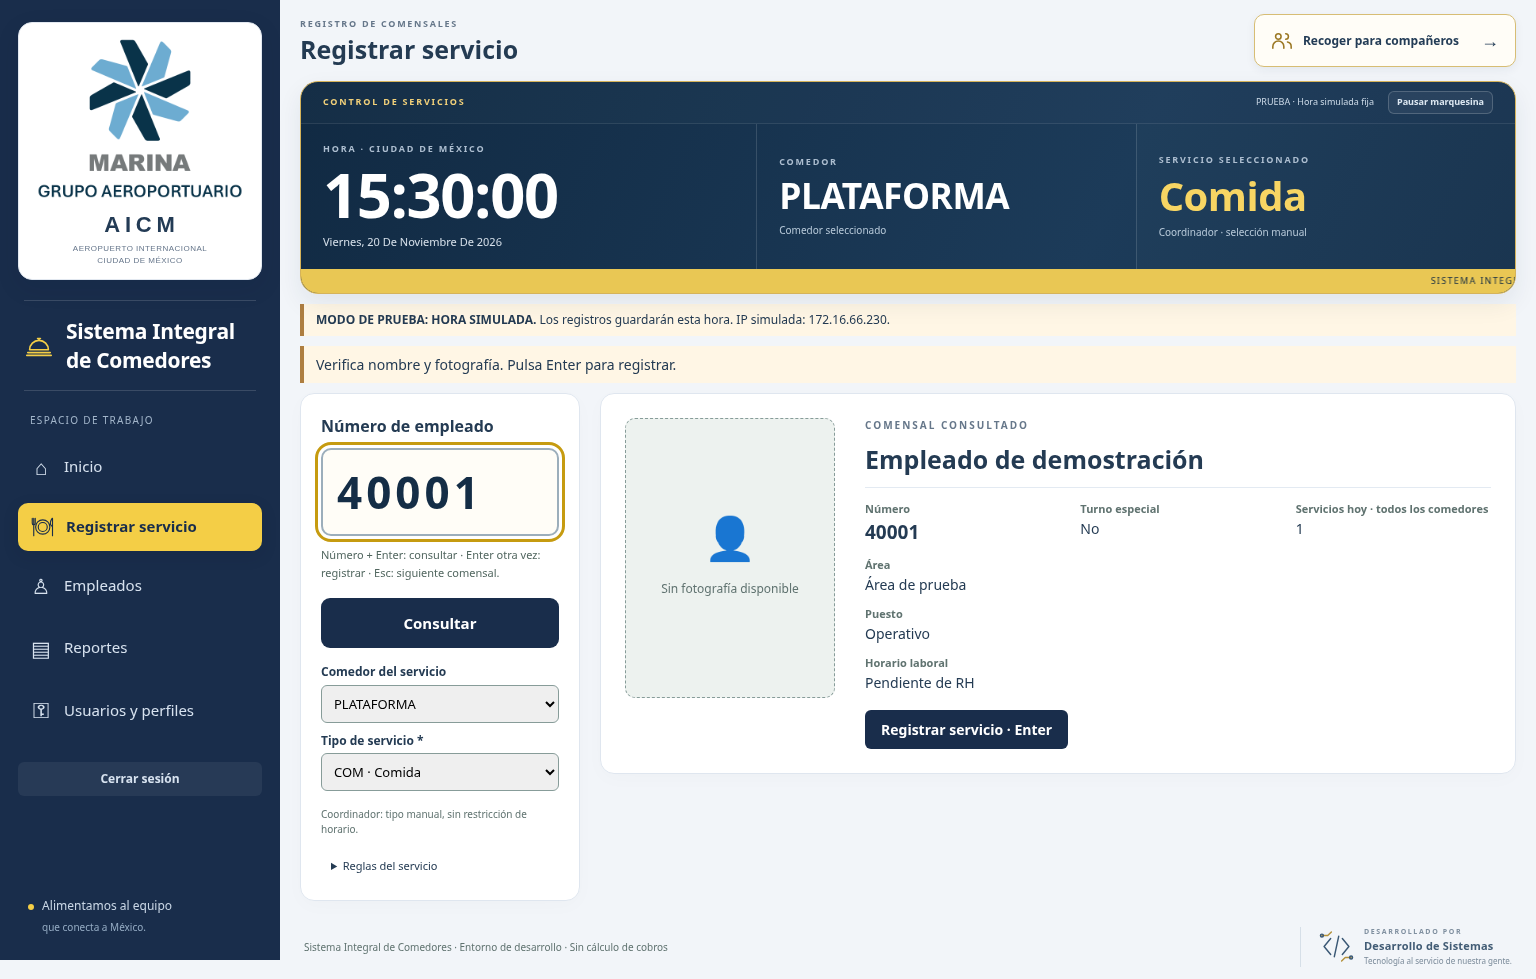
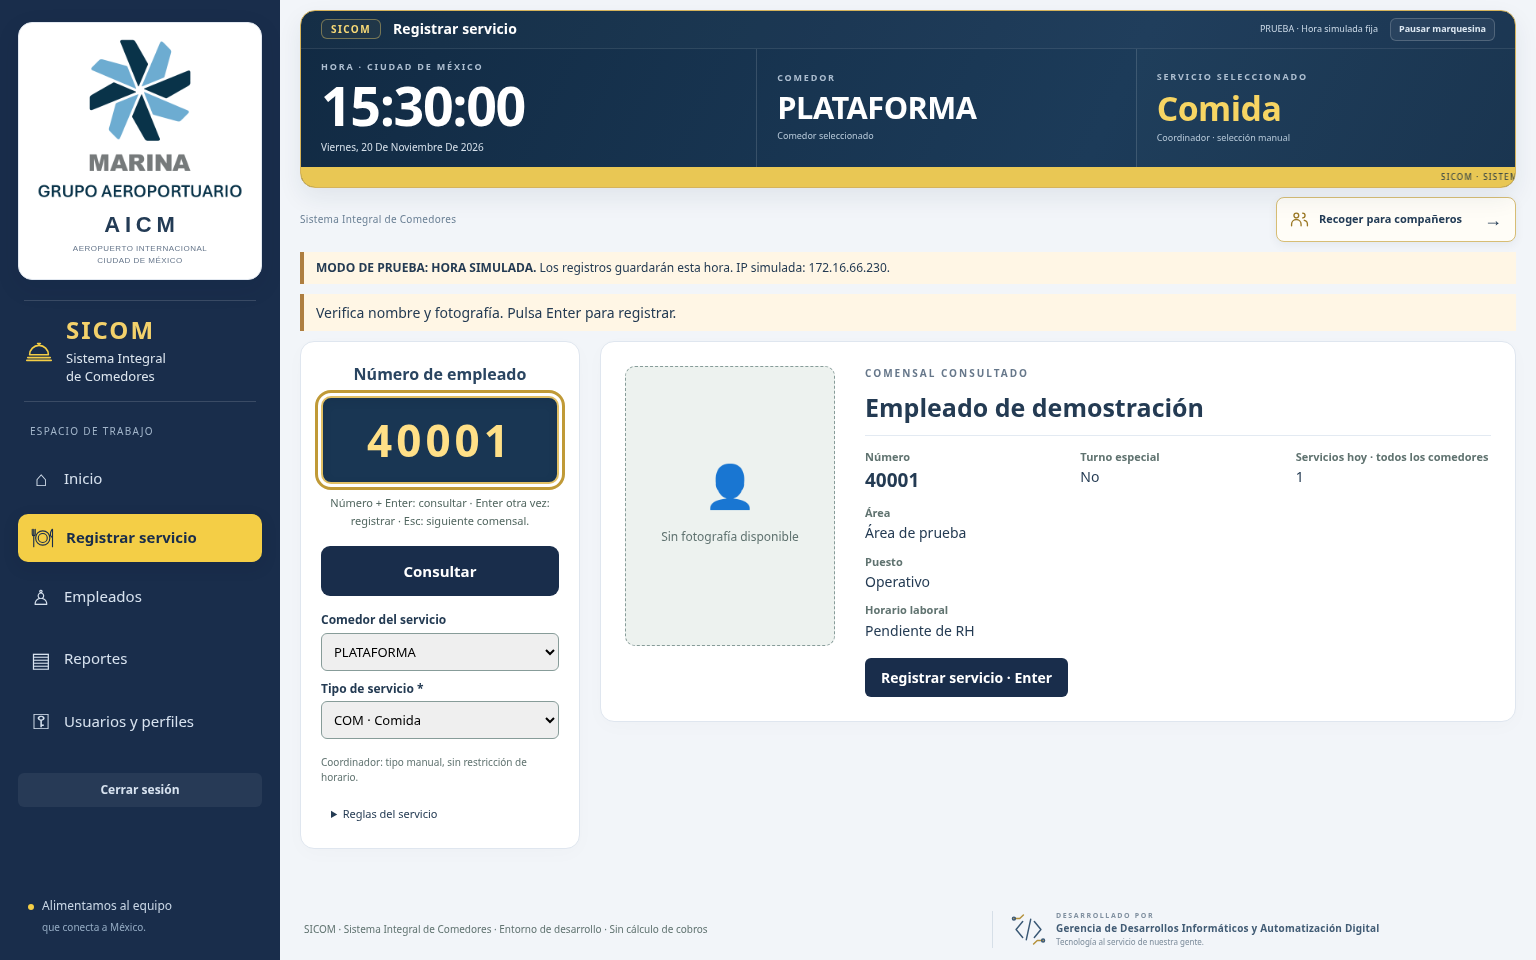
Incorpora SICOM con barra compacta captura centrada y firma de gerencia

diff --git a/src/Comedores.Web/wwwroot/css/site.css b/src/Comedores.Web/wwwroot/css/site.css
@@ -130,3 +130,14 @@
 @media(min-width:960px) and (max-height:680px){.app-shell>footer{padding-top:6px;padding-bottom:6px}.development-signature svg{width:26px;height:26px}.development-signature strong{font-size:10px}.development-signature em{display:none}.development-signature small{font-size:6px}.footer-product{font-size:8px}}
 @media(max-width:700px){.app-shell>footer,.access-shell>footer{flex-direction:column;align-items:flex-start;gap:16px;padding:20px}.development-signature{border-left:0;padding-left:0}.development-signature svg{width:32px;height:32px}.footer-product{font-size:9px}}
 @media print{.development-signature{display:none}}
+
+/* SICOM: cabecera compacta, encargos debajo y captura con contraste. */
+.registration-page.app-shell>main{padding-top:10px}.registration-page .registration-top{gap:9px}.registration-page .server-banner{min-height:155px;border-radius:15px}.registration-page .server-banner-top{padding:7px 20px;gap:12px}.banner-system-name{display:inline-flex;align-items:center;padding:4px 9px;border:1px solid #e6c96670;border-radius:6px;color:#f8da76;background:#f5d14d0c;font-size:10px;line-height:1;font-weight:800;letter-spacing:1.4px}.registration-page .server-banner-top h1.banner-operation-label{font-size:14px;font-weight:650;letter-spacing:.1px;line-height:1.3;margin:0 auto 0 0;color:#fff}.registration-page .server-banner-main,.registration-page .server-banner-room,.registration-page .server-banner-service{padding:12px 20px;gap:5px}.registration-page #server-clock{font-size:clamp(42px,3.5vw,56px)}.registration-page #current-room{font-size:clamp(23px,2vw,34px)}.registration-page #current-service{font-size:clamp(25px,2.2vw,36px)}.registration-page #server-date{font-size:10px}.registration-page .banner-field-note{font-size:9px}.registration-page .server-marquee{padding:4px 0;font-size:8px}.registration-toolbar{display:flex;align-items:center;justify-content:space-between;gap:12px;min-width:0}.toolbar-system-name{font-size:10px;color:#6b8095;letter-spacing:.3px}.registration-page .registration-toolbar .pickup-action{padding:8px 13px;font-size:11px;border-radius:8px}.registration-toolbar .pickup-action svg{width:19px;height:19px}
+.registration-page .capture-box label[for=Number]{text-align:center;color:#2a4561}.registration-page .capture-box #Number{background:#193653;color:#ffe087;caret-color:#ffe087;border:2px solid #59758e;text-align:center;box-shadow:inset 0 3px 10px #071c301c;font-weight:750}.registration-page .capture-box #Number::selection{background:#ffe087;color:#193653}.registration-page .capture-box #Number:focus-visible{outline-color:#c09a37;border-color:#e0bf65}.registration-page .capture-box #number-help{text-align:center}.registration-watermark .watermark-acronym{font-size:31px;font-weight:800;letter-spacing:5px;margin-top:0;line-height:1;color:#173654}.registration-watermark p{font-size:clamp(24px,2.3vw,37px)}
+.app-sidebar .system-label{min-width:0}.app-sidebar .system-short-name{display:block;color:#f3d16b;font-size:24px;line-height:1.1;letter-spacing:2px;font-weight:750;margin-bottom:5px}.app-sidebar .system-label p{font-size:13px;line-height:1.4;letter-spacing:0;font-weight:500;color:#dce5ee}.development-signature{flex:0 1 52%;min-width:0;max-width:520px}.development-signature>span{min-width:0}.development-signature strong{font-size:10px;line-height:1.5;overflow-wrap:break-word}.development-signature svg{flex:0 0 35px}.footer-product{min-width:0;flex:1}
+@media(min-width:960px) and (max-height:800px){.registration-page .server-banner{min-height:140px}.registration-page .server-banner-main,.registration-page .server-banner-room,.registration-page .server-banner-service{padding:9px 18px}.registration-page #server-clock{font-size:46px}.registration-page #current-room{font-size:28px}.registration-page #current-service{font-size:31px}.app-sidebar .system-short-name{font-size:22px}.app-sidebar .system-label p{font-size:12px}.registration-watermark .watermark-acronym{font-size:29px}.registration-watermark p{font-size:29px}}
+@media(min-width:960px) and (max-height:680px){.registration-page .server-banner{min-height:130px}.registration-page .server-banner-top{padding:5px 16px}.registration-page .server-banner-main,.registration-page .server-banner-room,.registration-page .server-banner-service{padding:8px 16px;gap:4px}.registration-page #server-clock{font-size:42px}.registration-page #current-room{font-size:26px}.registration-page #current-service{font-size:28px}.registration-page .server-banner-top h1.banner-operation-label{font-size:12px}.registration-page .registration-toolbar .pickup-action{padding:6px 10px}.development-signature svg{flex-basis:26px}.development-signature strong{font-size:8px}.registration-watermark .watermark-acronym{font-size:26px}.registration-watermark p{font-size:26px}}
+@media(max-width:959px){.registration-page .server-banner{margin:0;min-height:155px}.registration-page #server-clock{font-size:43px}.registration-page #current-room{font-size:25px}.registration-page #current-service{font-size:28px}.registration-page .server-banner-main,.registration-page .server-banner-room,.registration-page .server-banner-service{padding:12px}.app-sidebar .system-short-name{font-size:23px}.app-sidebar .system-label p{font-size:12px}}
+@media(max-width:700px){.development-signature{flex:initial;max-width:none;width:100%;padding:0}.development-signature strong{font-size:10px}.toolbar-system-name{display:none}.registration-page .registration-toolbar .pickup-action{width:100%;justify-content:center;padding:9px 12px}.registration-toolbar{display:block}.app-sidebar .system-label p{font-size:12px}}
+@media(max-width:600px){.registration-page .server-banner-top{justify-content:flex-start;gap:8px;padding:8px 12px}.registration-page .server-banner-top h1.banner-operation-label{font-size:13px;flex:1}.registration-page .server-banner-top #clock-status{order:3;flex:1 1 100%;font-size:8px}.registration-page .server-banner-top #clock-motion{font-size:8px;padding:4px 6px}.registration-page .server-banner-main{padding:13px}.registration-page #server-clock{font-size:49px}.registration-page #server-date{font-size:10px}.registration-page .server-banner-room,.registration-page .server-banner-service{padding:12px}.registration-page #current-room{font-size:22px}.registration-page #current-service{font-size:24px}.registration-watermark .watermark-acronym{font-size:27px}.registration-watermark p{font-size:26px}}
+@media print{.registration-toolbar{display:none}.registration-page .server-banner{min-height:0}.registration-page #server-clock{font-size:28px}.registration-page #current-room,.registration-page #current-service{font-size:20px}}

diff --git a/docs/BARRA-OPERATIVA.md b/docs/BARRA-OPERATIVA.md
@@ -8,13 +8,14 @@ Para un operador, el comedor sigue siendo el que identifica la IP y el servicio 
 
 ![Selección de coordinador](capturas/registro-barra-coordinador.png)
 
-En Inicio se muestra **Sistema Integral de Comedores** sobre la imagen gastronómica. Como propuesta de nombre corto: **SICOM AICM**, por Sistema Integral de Comedores. El nombre corto todavía no se aplica como marca definitiva.
+En Inicio se muestra **Sistema Integral de Comedores** sobre la imagen gastronómica. **SICOM**, por Sistema Integral de Comedores, se incorpora en menú lateral, barra de registro, marca de agua, Inicio, acceso y título del navegador.
 
 ## Incorporar a la copia de trabajo
 
 Detener la aplicación local con Ctrl+C y respaldar los archivos anteriores. Incorporar únicamente:
 
 - `src/Comedores.Web/Pages/Index.cshtml`
+- `src/Comedores.Web/Pages/Login.cshtml`
 - `src/Comedores.Web/Pages/Register.cshtml`
 - `src/Comedores.Web/Pages/Shared/_Layout.cshtml`
 - `src/Comedores.Web/wwwroot/css/site.css`
@@ -29,14 +30,16 @@ Prueba visual y funcional: `tests/browser/operational-banner.cjs`, exclusivament
 
 ## Captura ampliada y marca de agua
 
-La barra ahora ocupa todo el ancho del contenido principal, debajo de un encabezado con **Registrar servicio** a la izquierda y el botón **Recoger para compañeros** arriba a la derecha. El botón se mantiene separado de Consultar y Registrar para distinguir el flujo individual del de encargos. En pantallas angostas pasa debajo del título sin perder su nombre accesible.
+La barra ocupa todo el ancho del contenido principal y aparece directamente arriba, sin encabezado externo. Dentro de ella se muestra **SICOM · Registrar servicio** en lugar de Control de servicios. La altura y el espaciado se redujeron conservando la legibilidad. El botón **Recoger para compañeros** aparece debajo de la barra, separado de Consultar y Registrar para distinguir el flujo individual del de encargos.
 
 El número de empleado tiene cifras de 38 a 46 píxeles y un campo de 70 a 88 píxeles de alto según el tamaño de pantalla. El área de captura es más ancha. Cuando no se está consultando un empleado, una marca de agua grande muestra el logo de Grupo Aeroportuario y el nombre del sistema; se oculta al mostrar la ficha y reaparece después de limpiar, registrar o no encontrar un empleado. Es decorativa, no recibe clics ni se anuncia al lector de pantalla.
 
 ![Captura vacía con marca de agua y firma de desarrollo](capturas/registro-marca-agua.png)
 
-Se propone una firma de autoría discreta en el pie: símbolo de código y circuitos, **Desarrollado por · Desarrollo de Sistemas**, y **Tecnología al servicio de nuestra gente**. La denominación es genérica y queda pendiente sustituirla por el nombre exacto que indique el área. No se añadieron imágenes tecnológicas grandes sobre las fichas: la firma distingue el trabajo del equipo sin competir con la identidad institucional ni la operación.
+La firma de autoría al pie utiliza un símbolo de código y circuitos, **Desarrollado por · Gerencia de Desarrollos Informáticos y Automatización Digital**, y **Tecnología al servicio de nuestra gente**. No se añadieron imágenes tecnológicas grandes sobre las fichas: la firma distingue el trabajo del equipo sin competir con la identidad institucional ni la operación.
 
-Si la actualización anterior de barra ya está instalada, esta revisión requiere únicamente `Pages/Register.cshtml`, `Pages/Shared/_Layout.cshtml` y `wwwroot/css/site.css`. El paquete acumulado conserva además los archivos de Inicio y JavaScript de la actualización anterior. No reemplazar Program.cs, configuración local, contraseñas o la base de datos.
+Si la actualización anterior de barra ya está instalada, esta revisión requiere `Pages/Register.cshtml`, `Pages/Shared/_Layout.cshtml`, `Pages/Index.cshtml`, `Pages/Login.cshtml` y `wwwroot/css/site.css`. El paquete acumulado conserva además los archivos de Inicio y JavaScript de la actualización anterior. No reemplazar Program.cs, configuración local, contraseñas o la base de datos.
 
 Comprobado con consulta y guardado de un servicio ficticio: marca visible en vacío, oculta con ficha, visible después del éxito; conservación de combos, captura ampliada y barra completa. Revisión en seis tamaños de pantalla y compilación sin errores ni advertencias.
+
+El campo de empleado tiene el número y su etiqueta centrados, fondo azul oscuro y cifras doradas de alto contraste. Cambia únicamente la presentación: conserva patrón numérico, límite de cinco dígitos, foco, teclado y validaciones existentes.
